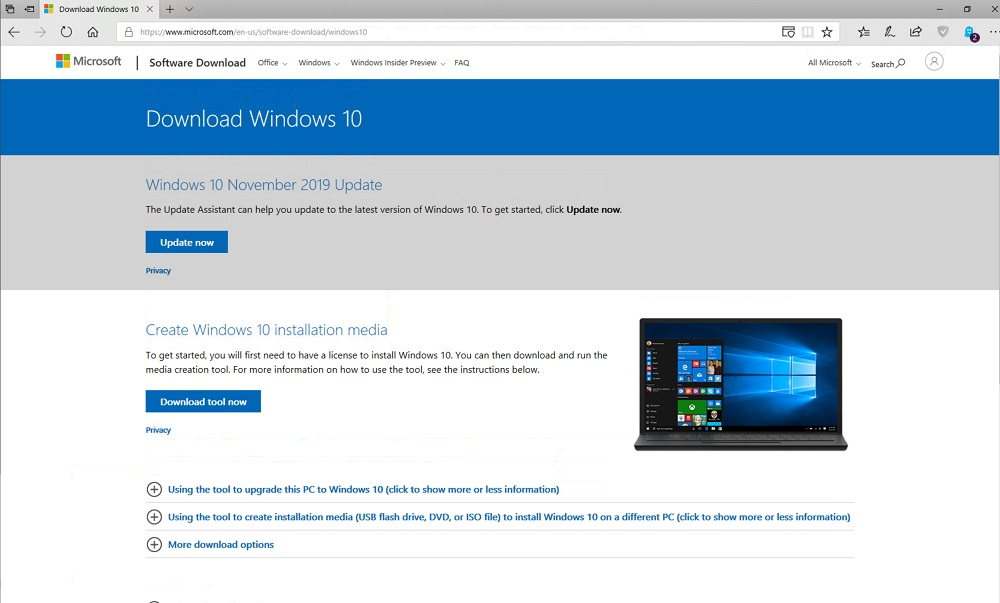
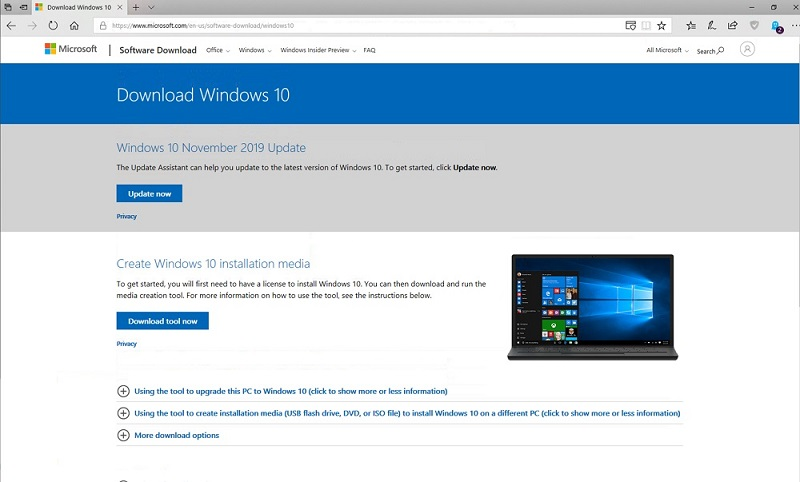
edits

diff --git a/docs/_video_pages/vbwin10.md b/docs/_video_pages/vbwin10.md
@@ -5,16 +5,24 @@ permalink: /vbwin10
 
 ## This is the companion page for the VirtualBox Windows 10 Video
 
+<br/><br/>
+<p align="center">
+<iframe width="560" height="315" src="" data-src="https://www.youtube.com/embed/_cWUb7xZ7Rs" frameborder="0" allow="accelerometer; autoplay; encrypted-media; gyroscope; picture-in-picture" allowfullscreen></iframe>
+</p>
+<br/><br/>
 
-The video and this guide will walk you through step-by-step of setting up a VirtualBox Virtual Machine on your computer and using it to install a fresh Windows 10 VM installation.
+
+The video and this guide will walk you through step-by-step of setting up a VirtualBox Virtual Machine on your computer and using it to install a fresh Windows 10 Virtual Machine installation.
+<br/>
 
 Before we start, I want to quickly go over a few items.
 
-To follow along with this guide you should have a HDD (SSD preferred) with at least 200 GB free, but more is better. Alternatively, you could use an external drive with similar free capacity, it will be a bit slower but still workable.
+To follow along with this guide you should have a HDD (SSD preferred) with at least 200 GB of free space, but more is better. Alternatively, you could use an external drive with similar free capacity, it will be a bit slower but still workable.
 
 If you do not already have a Windows ISO image file, you will also need a high speed Internet connection as we will be downloading a ~4 GB Windows ISO image file.
 
 Finally, if you wish to make your Windows 10 VM a more permanent installation, you will also need to have a valid Windows 10 Product key. This is optional as you can also take a snapshot of your finished VM install and simply revert back to its initial state once the grace period is over.
+<br/>
 
 There are also a few terms I wish to clarify: VM, VB, host system and guest system.
 
@@ -26,27 +34,26 @@ There are also a few terms I wish to clarify: VM, VB, host system and guest syst
 
 - The ‘guest system’ then is the Virtual Machine that you will be running within the VB software, in this case the virtual Windows 10 system.
 
+<br/>
 ### Download Windows 10 ISO
+<br/>
 
 To begin we will need to get a Windows 10 ISO image.
 
-Go to https://www.microsoft.com/en-us/software-download/windows10.
+Go to the [Windows 10 Download Tool](https://www.microsoft.com/en-us/software-download/windows10) page.
 
 <br/><br/>
 <p align="center">
-<img width="1000" height="603" src="images\videos\VirtualBox\Windows10_Download_Tool.jpg" title="Windows 10 Download Tool">
+<img width="800" height="482" src="images\videos\VirtualBox\Windows10_Download_Tool.jpg" title="Windows 10 Download Tool">
 </p>
-<br/><br/>
-
 Under the Create Windows 10 installation media section, click on Download tool now.
 
 <br/><br/>
 <p align="center">
 <img width="600" height="265" src="images\videos\VirtualBox\Windows10_Download_Dialog.jpg" title="Confirm Download Dialog">
 </p>
-<br/><br/>
-
 You should get a popup asking you to save the file, go ahead and click on Save File.
+<br/><br/>
 
 Once the file has downloaded, open up you downloads folder and double click on the MediaCreationToolxxxx.exe to begin installation of the tool.
 
